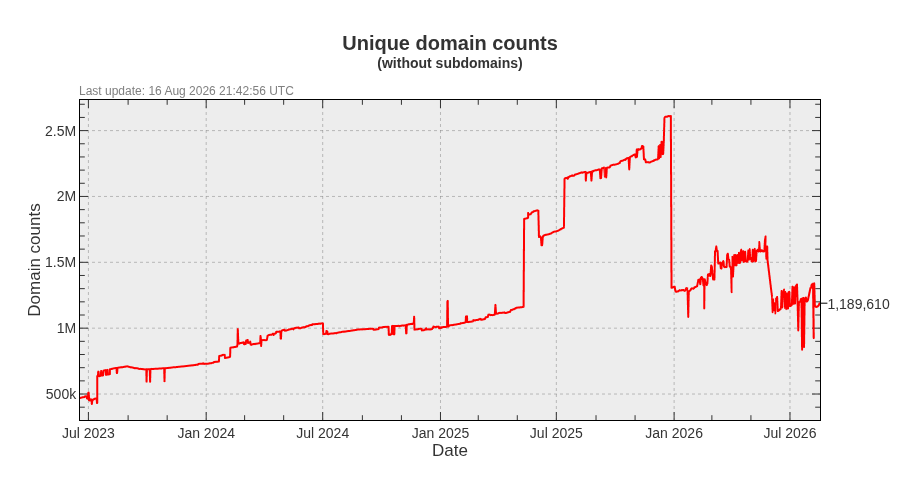
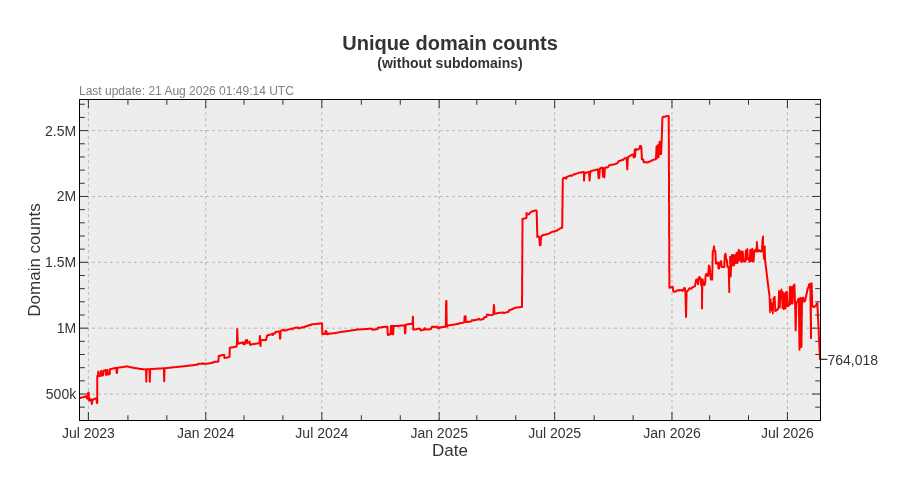
Update pages

diff --git a/README.md b/README.md
@@ -3,22 +3,22 @@ A blocklist file for blocking ads, trackers and malware domains.
 
[1 lines of base64/hex data omitted]
 
-- Unique domains: 1,926,672
-- Without subdomains: 1,189,610
-- Last update: 16 Aug 2026 21:42:56 UTC
-- Version: 2026.08.16.01
+- Unique domains: 1,490,933
+- Without subdomains: 764,018
+- Last update: 21 Aug 2026 01:49:14 UTC
+- Version: 2026.08.21.01
 
 
 ## Downloads:
 
 | Format             | Domain count      | Download Link |
 |------------------ | -----------------|-------------|
-| *Adblock Plus*     | 1,189,610 | [bad-hosts-abp](https://dl.cenk.app/bad-hosts/bad-hosts-abp) |
-| *Wildcard domains* | 1,189,610 | [bad-hosts-wildcard](https://dl.cenk.app/bad-hosts/bad-hosts-wildcard) |
-| *dnsmasq*          | 1,189,610 | [bad-hosts-dnsmasq](https://dl.cenk.app/bad-hosts/bad-hosts-dnsmasq) |
-| *hosts*            | 1,926,672 | [hosts](https://dl.cenk.app/bad-hosts/hosts) |
-| *hosts (ipv6)*     | 1,926,672 | [hosts-ipv6](https://dl.cenk.app/bad-hosts/hosts-ipv6) |
-| *Plain domains*    | 1,926,672 | [bad-hosts-domains](https://dl.cenk.app/bad-hosts/bad-hosts-domains) |
+| *Adblock Plus*     | 764,018 | [bad-hosts-abp](https://dl.cenk.app/bad-hosts/bad-hosts-abp) |
+| *Wildcard domains* | 764,018 | [bad-hosts-wildcard](https://dl.cenk.app/bad-hosts/bad-hosts-wildcard) |
+| *dnsmasq*          | 764,018 | [bad-hosts-dnsmasq](https://dl.cenk.app/bad-hosts/bad-hosts-dnsmasq) |
+| *hosts*            | 1,490,933 | [hosts](https://dl.cenk.app/bad-hosts/hosts) |
+| *hosts (ipv6)*     | 1,490,933 | [hosts-ipv6](https://dl.cenk.app/bad-hosts/hosts-ipv6) |
+| *Plain domains*    | 1,490,933 | [bad-hosts-domains](https://dl.cenk.app/bad-hosts/bad-hosts-domains) |
 
 ## Domain count history
 ### With subdomains
